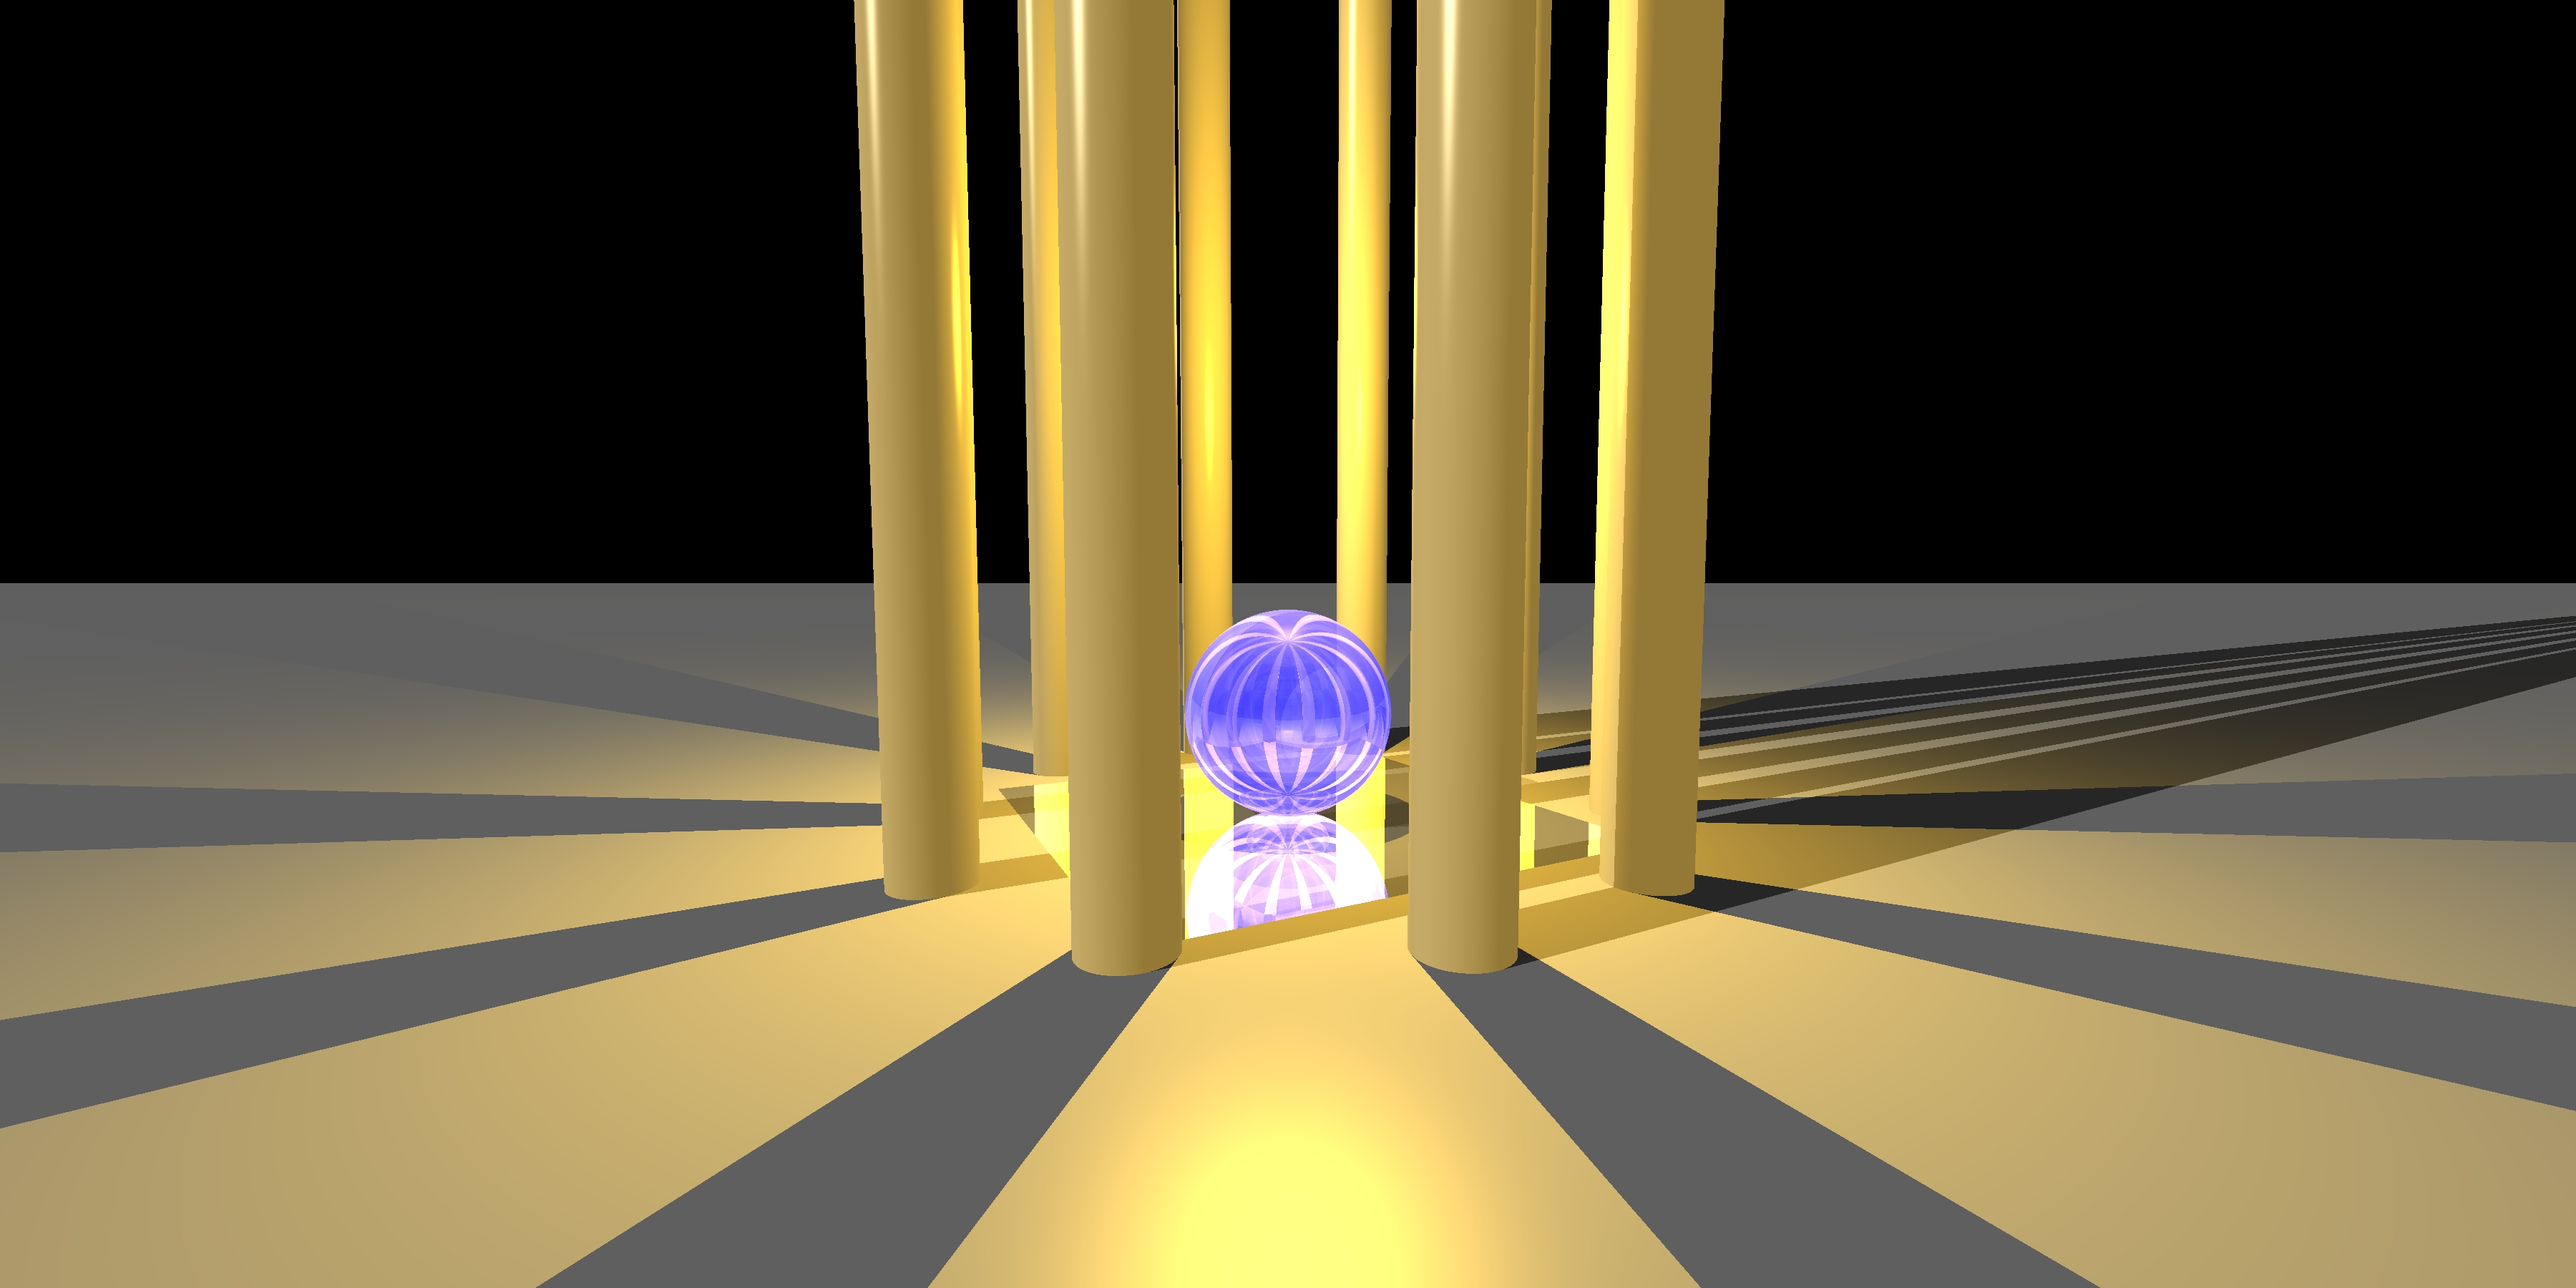
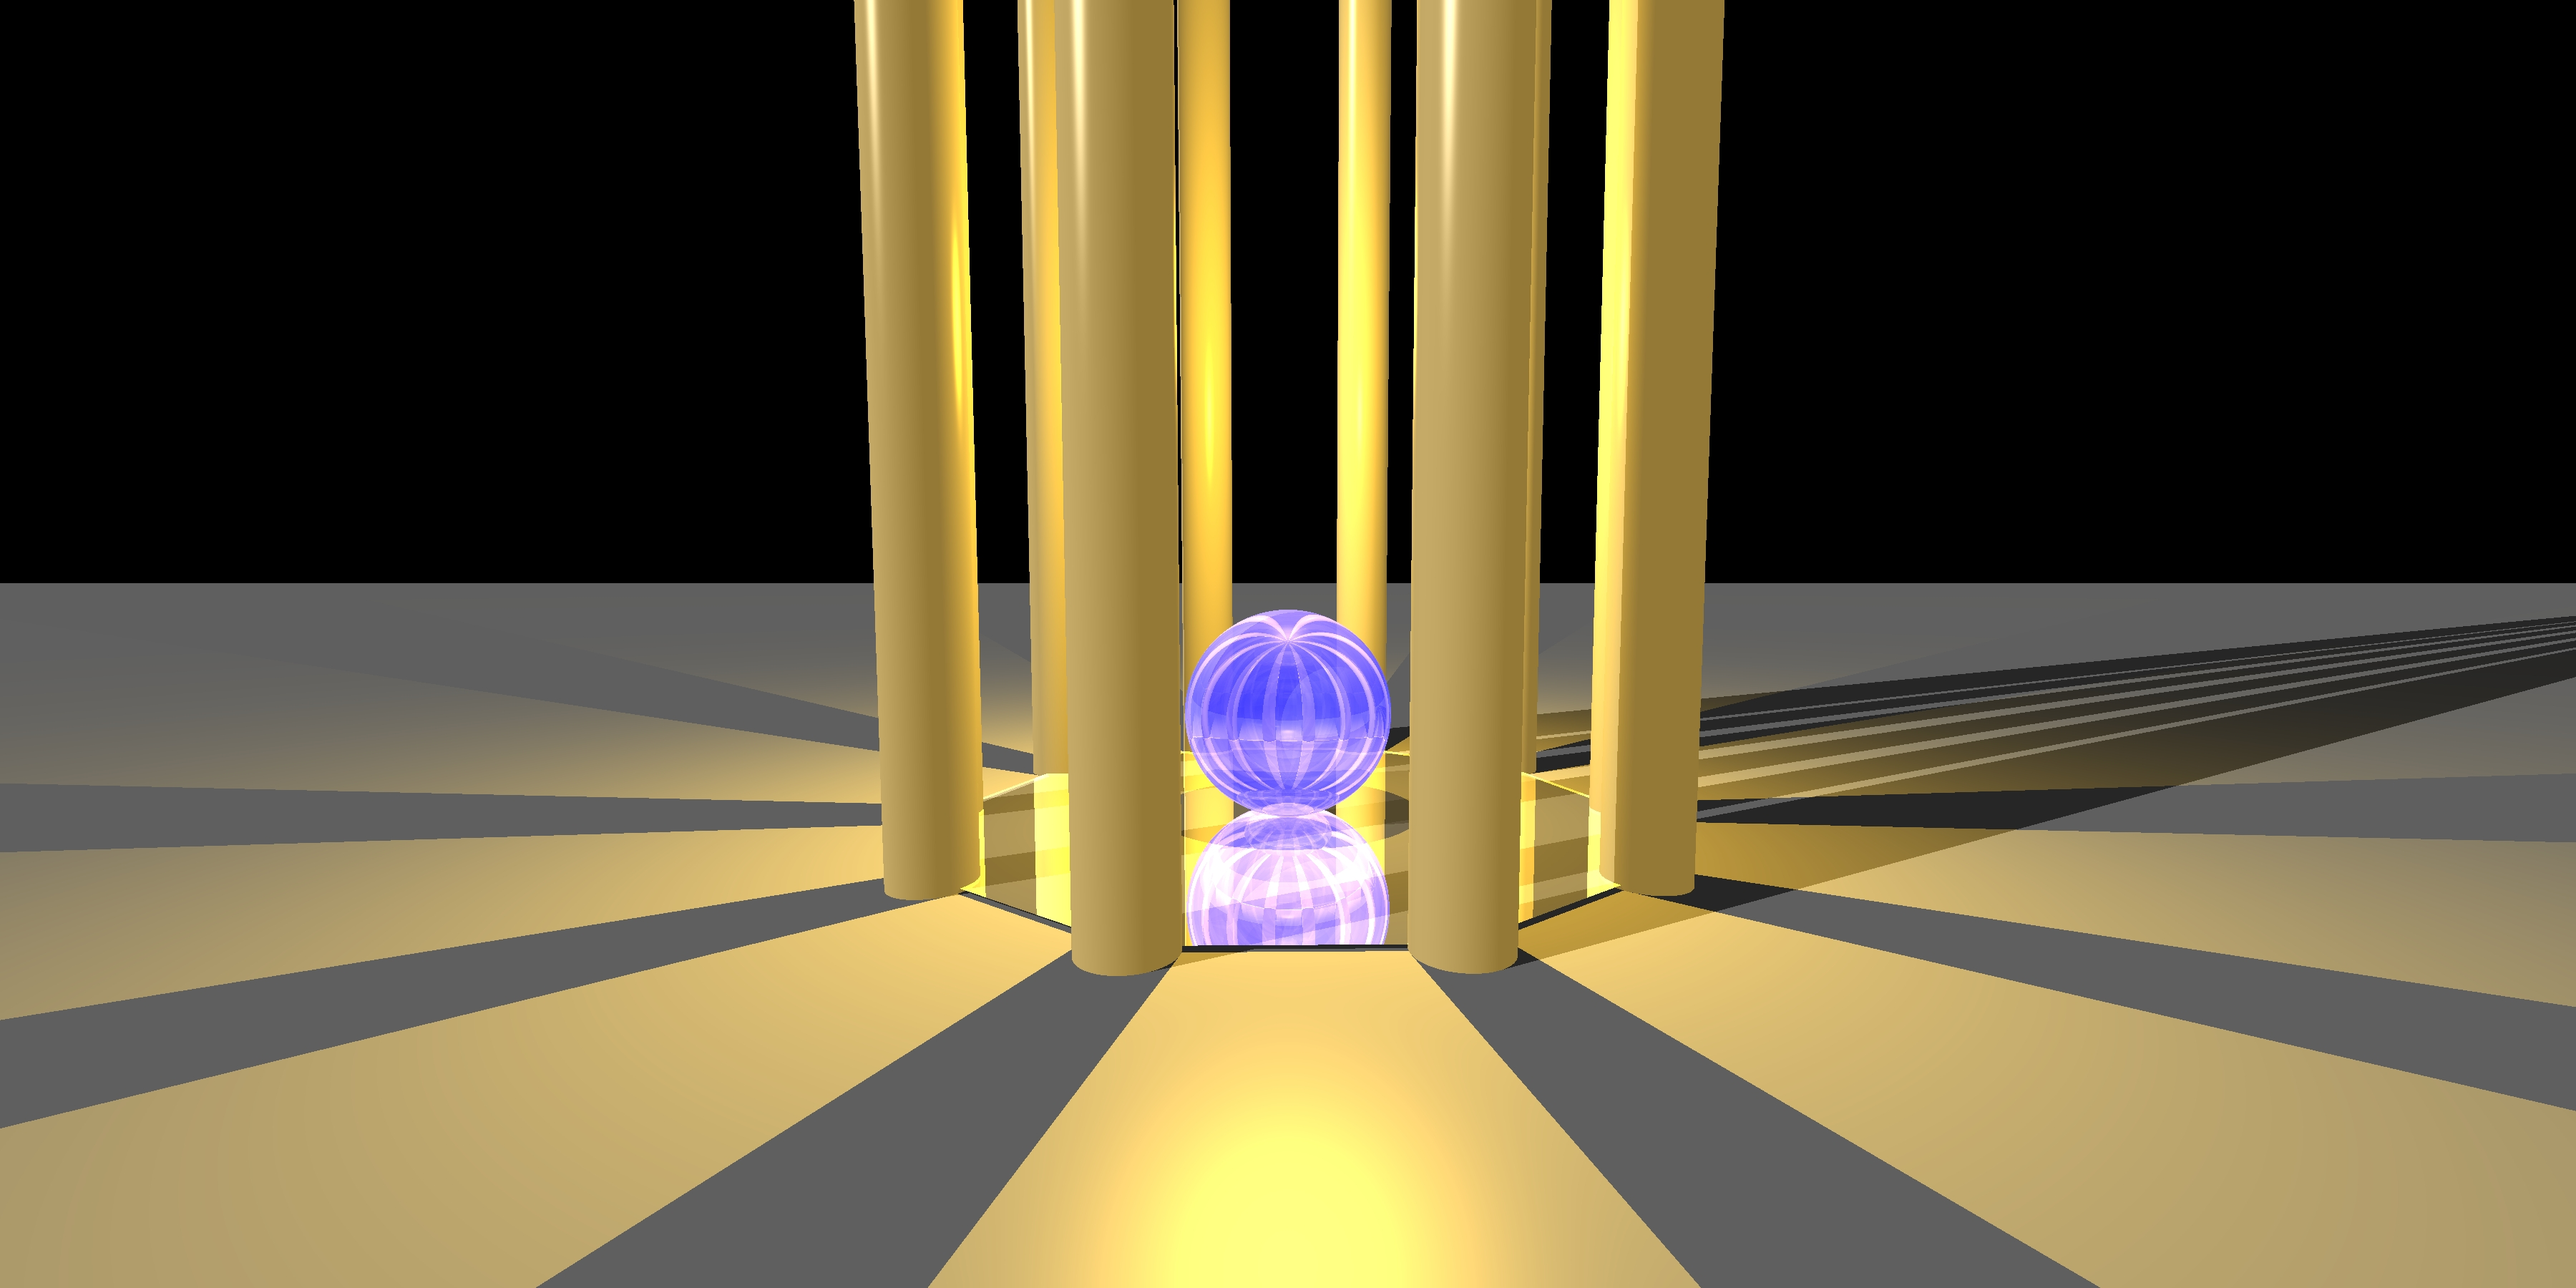
recitation 7 and correcting lecturer's bonus 1

Changed region(s): [[0.3733, 0.56, 0.56, 0.7467], [0.5911, 0.5911, 0.6222, 0.7156]]

diff --git a/src/unittests/renderer/ReflectionRefractionTests.java b/src/unittests/renderer/ReflectionRefractionTests.java
@@ -1,10 +1,7 @@
 package renderer;
 
 import elements.*;
-import geometries.Plane;
-import geometries.Sphere;
-import geometries.Triangle;
-import geometries.Tube;
+import geometries.*;
 import org.junit.Test;
 import primitives.Color;
 import primitives.Material;
@@ -165,7 +162,7 @@ public class ReflectionRefractionTests {
         final double SCALED = 10, WIDTH = 100 * SCALED, CENTER_Z = 0 * SCALED;
         final double KD = 0.3, KS = 1 - KD, KT = 0, KR = 1;
         Color triangleColor = new Color(java.awt.Color.black);
-        scene.addGeometries(
+        scene.addGeometries(/*
                 new Triangle(triangleColor, new Material(KD, KS, 30, KT, KR),
                         new Point3D(0, -WIDTH, 0), new Point3D(-WIDTH, 0, 0), new Point3D(0, 0, CENTER_Z)),
                 new Triangle(triangleColor, new Material(KD, KS, 30, KT, KR),
@@ -173,7 +170,7 @@ public class ReflectionRefractionTests {
                 new Triangle(triangleColor, new Material(KD, KS, 30, KT, KR),
                         new Point3D(0, WIDTH, 0), new Point3D(WIDTH, 0, 0), new Point3D(0, 0, CENTER_Z)),
                 new Triangle(triangleColor, new Material(KD, KS, 30, KT, KR),
-                        new Point3D(WIDTH, 0, 0), new Point3D(0, -WIDTH, 0), new Point3D(0, 0, CENTER_Z)),
+                        new Point3D(WIDTH, 0, 0), new Point3D(0, -WIDTH, 0), new Point3D(0, 0, CENTER_Z)),*/
                 new Plane(new Color(java.awt.Color.black), new Material(0.5, 0.5, 30, 0, 0),
                         new Point3D(0, 0, 0), new Vector(0, 0, 1)),
                 new Sphere(new Color(java.awt.Color.blue), new Material(0.2, 0.2, 30, 0.6, 0.4),
@@ -186,6 +183,13 @@ public class ReflectionRefractionTests {
                     new Tube(new Color(109, 82, 16), new Material(0.3, 0.7, 50, 0, 0),
                             new Point3D(r * Math.cos(theta), r * Math.sin(theta), 10), new Vector(0, 0, 1), 100));
         }
+        Point3D[] polygonPoints = new Point3D[NUM_OF_TUBES];
+        for (int i = 0; i < NUM_OF_TUBES; ++i) {
+            double theta = Math.PI * 2 * (i * 1.0 / NUM_OF_TUBES);
+            polygonPoints[i] = new Point3D(r * Math.cos(theta), r * Math.sin(theta), 10);
+        }
+        scene.addGeometries(new Polygon(triangleColor, new Material(KD, KS, 30, KT, KR), polygonPoints));
+
         scene.addLights(new PointLight(new Color(654, 495, 96),
                 new Point3D(0, 0, 1500), 1, 4E-5, 2E-7));
 
